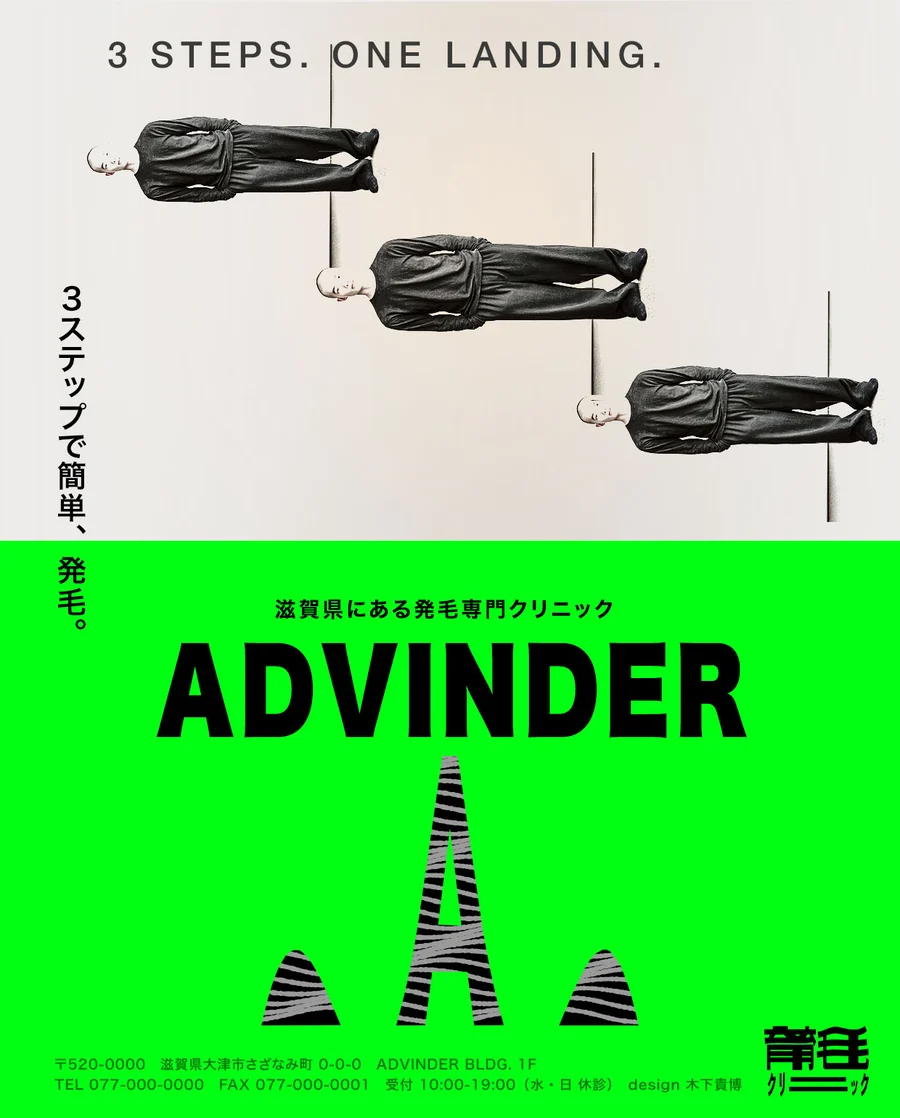
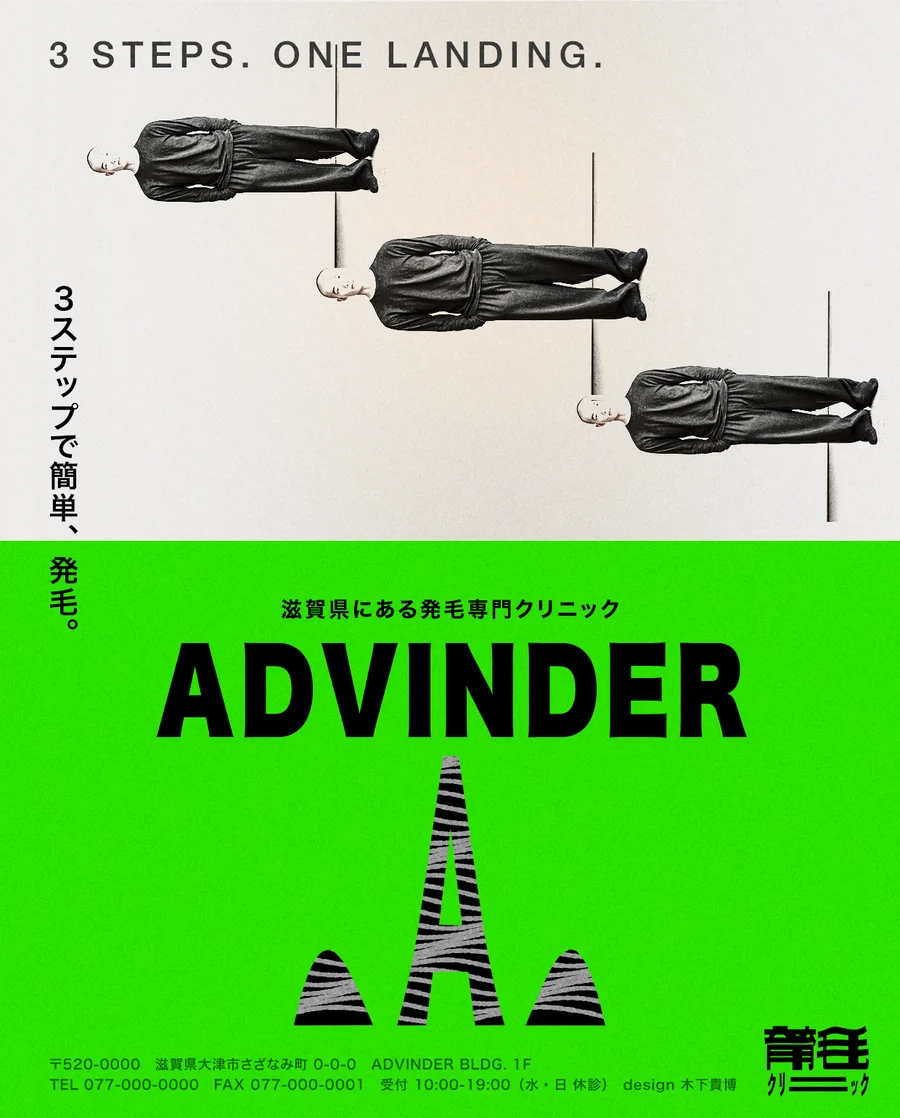
ADVINDER：表と裏を差し替え／/taka/ は表裏を8秒で交互に出す
・表＝日本語ロゴを新しい形に、STEP の写真3枚を実写に差し替えた版
・裏＝情報の面を新規追加（flyer-poster-work は表と裏を縦に2枚）
・/taka/ の札は裏を絶対配置で重ねるので組みは動かない（表695x863／裏695x863／札863）
・prefers-reduced-motion のときは表だけ出す

diff --git a/flyer-poster-work.html b/flyer-poster-work.html
@@ -39,6 +39,8 @@
     .work-name{font-family:'Space Mono',monospace;font-size:.8rem;letter-spacing:.1em;text-transform:uppercase;margin-bottom:.5rem;color:var(--ink)}
     .work-cat-label{font-family:'Space Mono',monospace;font-size:.58rem;color:var(--ink-faint);letter-spacing:.15em}
     .work-img{width:52%;max-width:340px;height:auto;display:block;border:1px solid var(--line)}
+    /* 表と裏の2枚を続けて置くときだけ、間を空ける（1枚の作品は今までどおり） */
+    .work-img + .work-img{margin-top:12px}
     .work-desc{font-family:'Zen Kaku Gothic New',sans-serif;font-weight:400;font-size:.85rem;color:var(--ink-light);line-height:2.2;margin-top:1.5rem}
 
     .back-section{padding:4rem 3rem;border-top:1px solid var(--line);display:flex;justify-content:space-between;align-items:center}
@@ -364,10 +366,13 @@
       <div class="work-cat-label">Self-Initiated / Rebranding Poster</div>
     </div>
     <div class="work-visual">
-      <img src="assets/img/img-poster-advinder.webp"
-           alt="木下スタジオ（木下貴博 / 滋賀）自主制作：発毛クリニック「ADVINDER」のリブランディングポスター — 蛍光の緑と極太の英字、日本語ロゴは自作の道具で組んだ"
+      <img src="assets/img/img-poster-advinder.webp?v=20260924b"
+           alt="木下スタジオ（木下貴博 / 滋賀）自主制作：発毛クリニック「ADVINDER」のリブランディングポスター 表 — 蛍光の緑と極太の英字、日本語ロゴは自作の道具で組んだ"
            class="work-img" width="900" height="1118" loading="lazy">
-      <p class="work-desc">上は写真とコピーだけにして、社名・業種・住所といった細かい情報は下の色面が全部引き受ける。日本語ロゴは自作の道具（曳 HIKI）で横に伸ばして組んだ。</p>
+      <img src="assets/img/img-poster-advinder-2.webp?v=20260924b"
+           alt="同ポスターの裏 — 診る・決める・続けるの3ステップ、できること、医院の特徴、アクセスまでを1枚に収めた情報面"
+           class="work-img" width="900" height="1118" loading="lazy">
+      <p class="work-desc">上は写真とコピーだけにして、社名・業種・住所といった細かい情報は下の色面が全部引き受ける。日本語ロゴは自作の道具（曳 HIKI）で横に伸ばして組んだ。裏は逆で、費用も期間も、やめ方までぜんぶ文字で出す面にした。</p>
     </div>
   </div>
 

diff --git a/taka/index.html b/taka/index.html
@@ -368,6 +368,21 @@ main.list{max-width:1440px;margin:0 auto;padding-block:120px 160px}
       nav,nav.scrolled{padding-left:var(--pad);padding-right:var(--pad)}
       footer{padding-left:var(--pad);padding-right:var(--pad)}
     }
+
+    /* 表と裏を交互に見せる札（いまは ADVINDER だけ）。
+       2枚目は絶対配置なので高さは1枚目が決める＝組みは動かない */
+    main.masonry .w.flip{overflow:hidden}
+    main.masonry .w.flip .flip-b{
+      position:absolute;inset:0;width:100%;height:100%;object-fit:cover;
+      opacity:0;pointer-events:none;
+      animation:flipFace 8s ease-in-out infinite}
+    @keyframes flipFace{
+      0%,44%   {opacity:0}
+      50%,94%  {opacity:1}
+      100%     {opacity:0}}
+    /* めくりは足さない情報なので、動きを止めている人には表だけ出す */
+    @media (prefers-reduced-motion:reduce){
+      main.masonry .w.flip .flip-b{animation:none;opacity:0}}
   </style>
 </head>
 <body>
@@ -447,8 +462,9 @@ main.list{max-width:1440px;margin:0 auto;padding-block:120px 160px}
 </div>
 
 <main class="masonry">
-  <a href="/flyer-poster-work.html" class="w" data-k="poster">
-    <img src="img/advinder.webp" alt="ADVINDER" >
+  <a href="/flyer-poster-work.html" class="w flip" data-k="poster">
+    <img src="img/advinder.webp?v=20260924b" alt="ADVINDER" >
+    <img src="img/advinder2.webp?v=20260924b" alt="" class="flip-b" aria-hidden="true" loading="lazy">
     <span class="cap"><b>ADVINDER</b><span class="mono">REBRANDING POSTER</span><span class="mono r">AD / DESIGN / LOGO</span></span>
   </a>
   <a href="/flyer-poster-work.html" class="w" data-k="poster">
